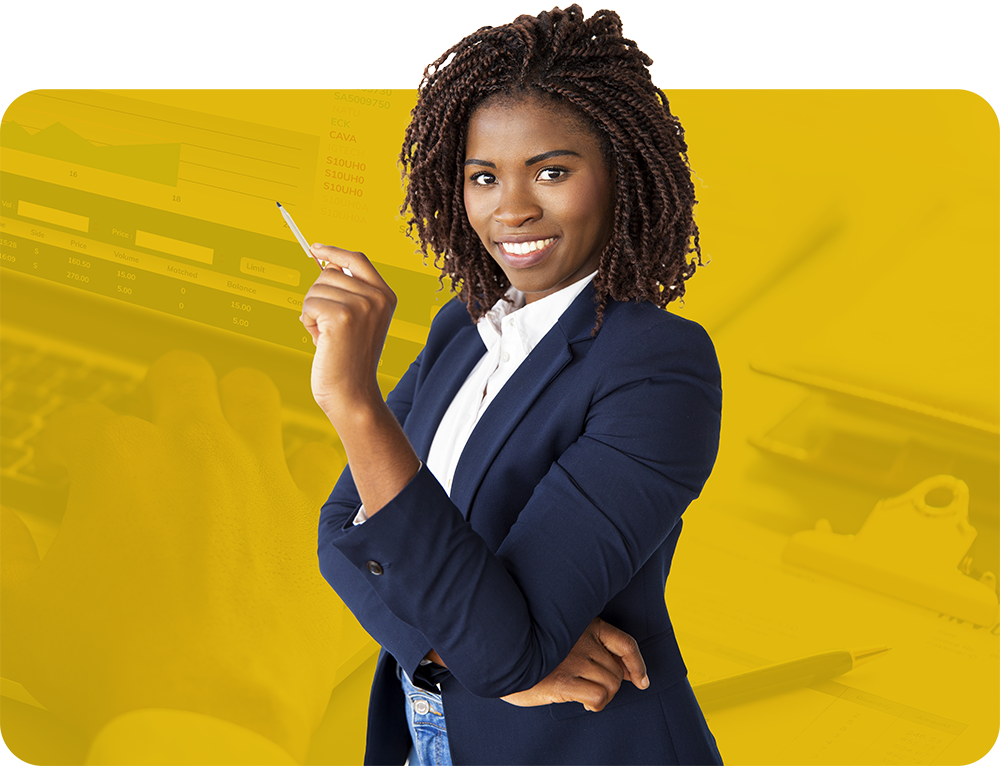
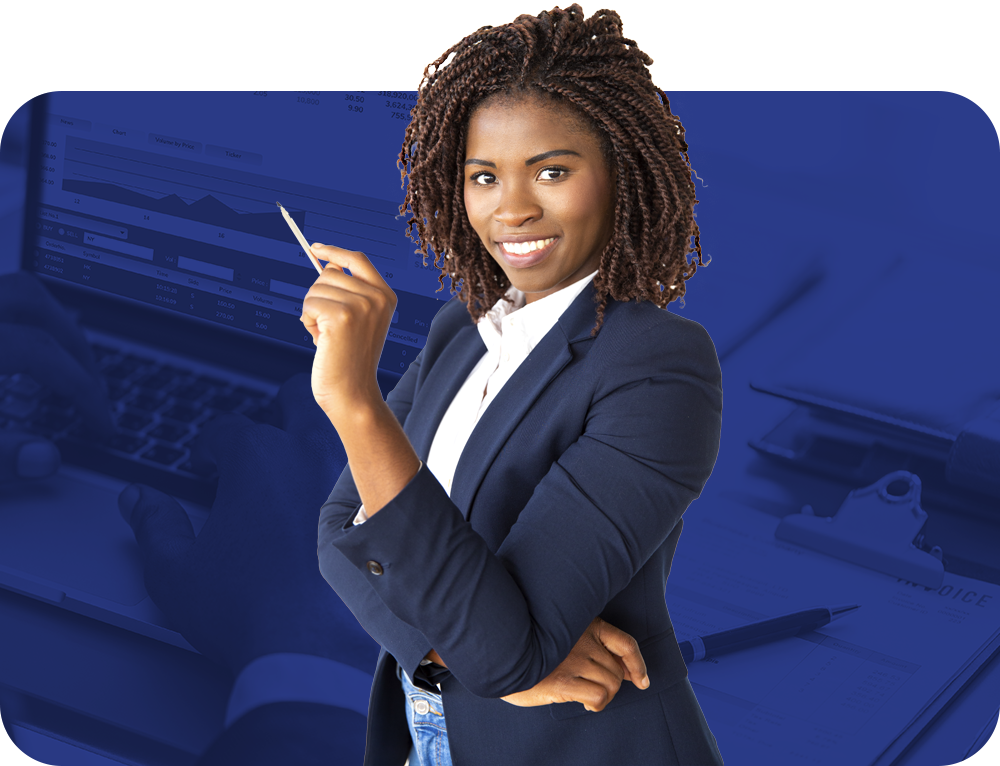
Color change

diff --git a/src/components/Aboutus.tsx b/src/components/Aboutus.tsx
@@ -38,7 +38,7 @@ export default function Aboutus() {
             <div className='container mx-auto px-4 md:py-20 py-10 '>
                 <div  className='grid md:grid-cols-2 gap-4 justify-center items-center'>
                     <div className='flex flex-col justify-center items-start'>
-                        <small className='text-amber-400 font-bold'>ABOUT US</small>
+                        <small className='text-blue-600 font-black'>ABOUT US</small>
                         <h1 className='font-black md:text-4xl text-3xl md:max-w-md'>Your trusted partner in accounting solutions</h1>
                     </div>
                     <div>
@@ -46,20 +46,20 @@ export default function Aboutus() {
                     </div>
                 </div>
                 <div className='grid md:grid-cols-4 md:gap-10 gap-6  justify-center items-center mt-10 '>
-                    <div className='flex flex-col justify-start items-start border-1 border-amber-400 p-10 rounded-3xl'>
-                    <div className='bg-amber-400 p-6 rounded-4xl mb-4'><Image src='/assets/images/book-keeping.png' width={50} height={50} alt='book keeping' className='' /></div>
+                    <div className='flex flex-col justify-start items-start border-1 border-blue-900 p-10 rounded-3xl'>
+                    <div className='bg-blue-600 p-6 rounded-4xl mb-4'><Image src='/assets/images/book-keeping.png' width={50} height={50} alt='book keeping' className='' /></div>
                         <p className='font-black text-xl '>Book Keeping And Accounting</p>
                     </div>
-                    <div className='flex flex-col justify-start items-start border-1 border-amber-400 p-10 rounded-3xl'>
-                    <div className='bg-amber-400 p-6 rounded-4xl mb-4'><Image src='/assets/images/tax.png' width={50} height={50} alt='book keeping' className='' /></div>
+                    <div className='flex flex-col justify-start items-start border-1 border-blue-900 p-10 rounded-3xl'>
+                    <div className='bg-blue-600 p-6 rounded-4xl mb-4'><Image src='/assets/images/tax.png' width={50} height={50} alt='book keeping' className='' /></div>
                         <p className='font-black text-xl '>Tax Planning And Preparation</p>
                     </div>
-                    <div className='flex flex-col justify-start items-start border-1 border-amber-400 p-10 rounded-3xl'>
-                    <div className='bg-amber-400 p-6 rounded-4xl mb-4'><Image src='/assets/images/consultation.png' width={50} height={50} alt='book keeping' className='' /></div>
-                        <p className='font-black text-xl'>Business Advisory Service</p>
+                    <div className='flex flex-col justify-start items-start border-1 border-blue-900 p-10 rounded-3xl'>
+                    <div className='bg-blue-600 p-6 rounded-4xl mb-4'><Image src='/assets/images/consultation.png' width={50} height={50} alt='book keeping' className='' /></div>
+                        <p className='font-black text-xl'>Business Advisory<br/> Service</p>
                     </div>
-                    <div className='flex flex-col justify-start items-start border-1 border-amber-400 p-10 rounded-3xl'>
-                        <div className='bg-amber-400 p-6 rounded-4xl mb-4'><Image src='/assets/images/evaluation.png' width={50} height={50} alt='book keeping' className='' /></div>
+                    <div className='flex flex-col justify-start items-start border-1 border-blue-900 p-10 rounded-3xl'>
+                        <div className='bg-blue-600 p-6 rounded-4xl mb-4'><Image src='/assets/images/evaluation.png' width={50} height={50} alt='book keeping' className='' /></div>
                         <p className='font-black text-xl'>Financial Statement Preparation</p>
                     </div>                  
                 </div>

diff --git a/src/components/Footer.tsx b/src/components/Footer.tsx
@@ -12,23 +12,23 @@ export default function Footer() {
             <div className=''>
                 <Image src='/assets/images/SVG/banu-white.svg' alt='logo' width={120} height={100} className='width={100}' />
                 <p className='pt-6'>Banu simplifies small business finances. But our larger purpose expands beyond that. We’re here to help entrepreneurs understand what they want to do and where they want to go.</p>
-                <Button className='mt-4 border-2 border-amber-400 bg-amber-400 hover:bg-white text-black cursor-pointer py-6 px-10 font-bold'>Get Started <ArrowUpRight /></Button>
+                <Button className='mt-4 border-1 border-blue-600 bg-blue-600 hover:bg-blue-900 text-white cursor-pointer py-6 px-10 font-bold'>Get Started <ArrowUpRight /></Button>
             </div>
             <div className=''>
-                <p className='font-black text-xl text-amber-400'>Quick Links</p>
+                <p className='font-black text-xl text-blue-600'>Quick Links</p>
                 <Link href={'/'}><p className='font-bold cursor-pointer py-2 border-b-1 border-b-gray-700'>About</p></Link>
                 <Link href={'/'}><p className='font-bold cursor-pointer py-2 border-b-1 border-b-gray-700'>Services</p></Link>
                 <Link href={'/'}><p className='font-bold cursor-pointer py-2 border-b-1 border-b-gray-700'>Faq</p></Link>
                 <Link href={'/'}><p className='font-bold cursor-pointer py-2 border-b-1 border-b-gray-700'>Pricing</p></Link>
             </div>
             <div className='md:text-right'>
-            <p className='font-black text-xl text-amber-400 md:text-right'>Say Hello!</p>
+            <p className='font-black text-xl text-blue-600 md:text-right'>Say Hello!</p>
                 <p>+1 (614) 285‑9445</p>
                 <p>info@banubookkeeping.com</p>
-                <div className='flex flex-row gap-4 mt-6 md:justify-end'>
-                    <div className='bg-amber-400 p-2 rounded-full text-black'><Facebook/></div>
-                    <div className='bg-amber-400 p-2 rounded-full text-black'><Twitter/></div>
-                    <div className='bg-amber-400 p-2 rounded-full text-black'><Linkedin/></div>
+                <div className='flex flex-row gap-4 mt-6 md:justify-end text-white'>
+                    <div className='bg-blue-600 p-2 rounded-full text-white'><Facebook/></div>
+                    <div className='bg-blue-600 p-2 rounded-full text-white'><Twitter/></div>
+                    <div className='bg-blue-600 p-2 rounded-full text-white'><Linkedin/></div>
                 </div>
             </div>
         </div>

diff --git a/src/components/Navbar.tsx b/src/components/Navbar.tsx
@@ -31,23 +31,23 @@ useEffect(() => {
           <Image src='/assets/images/SVG/banu.svg' alt='logo' width={150} height={100} className='width={100}' />
         </Link>
         <div className="hidden md:flex space-x-6 justify-between items-center">
-          <Link href="/" className="text-gray-900 hover:text-amber-400 font-bold">
+          <Link href="/" className="text-gray-900 hover:text-blue-600 font-bold">
             Home
           </Link>
-          <Link href="/services" className="text-gray-900 hover:text-amber-400 font-bold">
+          <Link href="/services" className="text-gray-900 hover:text-blue-600 font-bold">
             Services
           </Link>
-          <Link href="/about" className="text-gray-900 hover:text-amber-400 font-bold">
+          <Link href="/about" className="text-gray-900 hover:text-blue-600 font-bold">
             About Us
           </Link>
-          <Link href="/" className="text-gray-900 hover:text-amber-400 font-bold">
+          <Link href="/" className="text-gray-900 hover:text-blue-600 font-bold">
             Pricing
           </Link>
-          <Link href="/contacts" className="text-gray-900 hover:text-amber-400 font-bold">
+          <Link href="/contacts" className="text-gray-900 hover:text-blue-600 font-bold">
             Contacts
           </Link>
-          <Link href="/dashboard" className="text-gray-700 hover:text-blue-500">
-          <Button className='border-2 border-amber-400 bg-amber-400 hover:bg-white text-black cursor-pointer p-6 font-bold'>Get Started <ArrowUpRight/></Button>
+          <Link href="/dashboard" className="text-gray-700 hover:text-bg-blue-600">
+          <Button className=' bg-blue-900 hover:bg-blue-600 text-white cursor-pointer p-6 font-bold'>Get Started <ArrowUpRight/></Button>
           </Link>
         </div>
         <button className="md:hidden" onClick={() => setIsOpen(!isOpen)}>
@@ -72,7 +72,7 @@ useEffect(() => {
             Contacts <ArrowUpRight className='text-amber-400'/>
           </Link>
           <Link href="/dashboard" className="block flex flex-row justify-between text-gray-700 hover:text-blue-500">
-          <Button className='w-full border-2 border-amber-400 bg-amber-400 hover:bg-white text-black cursor-pointer p-6 font-bold'>Get Started <ArrowUpRight/></Button>
+          <Button className='w-full border-2 border-amber-400 bg-teal-800 hover:bg-white text-black cursor-pointer p-6 font-bold'>Get Started <ArrowUpRight/></Button>
           </Link>
         </div>
       )}

diff --git a/src/app/(auth)/signin/page.tsx b/src/app/(auth)/signin/page.tsx
@@ -6,7 +6,7 @@ import React from 'react'
 // import { EyeIcon, EyeOffIcon } from "lucide-react";
 
 import Login from '@/components/sign-in'
-import { auth } from '@/lib/auth'
+import { auth, signIn } from '@/lib/auth'
 import { redirect } from 'next/navigation'
 
 const SignIn = async () => {
@@ -28,14 +28,17 @@ const SignIn = async () => {
                         <Image src='/assets/images/SVG/banu.svg' alt='logo' width={150} height={100} className='' />
                     </Link>
 
-                    <Login/>
+                    <Login />
 
                     <div className="flex items-center gap-4 mt-6 w-full">
                         <div className="flex-1 border-t border-amber-400 w-full"></div>
                         <span className="text-gray-500">or continue with</span>
                         <div className="flex-1 border-t border-amber-400"></div>
                     </div>
-                    <form className='mt-10 flex flex-col gap-4 w-full'>
+                    <form action={async () => {
+                        "use server"
+                        await signIn("credentials")
+                    }} className='mt-10 flex flex-col gap-4 w-full'>
                         <div>
                             <input
                                 type="email"
@@ -50,7 +53,7 @@ const SignIn = async () => {
                                 placeholder="Enter your password"
                             />
                         </div>
-                        <Button className='hover:cursor-pointer bg-amber-400 text-black font-bold py-6 hover:bg-white border-amber-400 border-1 w-full' >Get Started</Button>
+                        <Button className='hover:cursor-pointer bg-teal-900 text-black font-bold py-6 hover:bg-white border-amber-400 border-1 w-full' >Get Started</Button>
                     </form>
                     <p className='mt-4'>Already Registered? <span><Link href={'/signup'} className='font-bold text-amber-400'>Sign Up</Link></span></p>
                 </div>

diff --git a/src/components/header.tsx b/src/components/header.tsx
@@ -32,9 +32,9 @@ export default function Header() {
         <section className=' min-h-200 flex justify-center items-center'>
             <div className='container mx-auto px-4 grid md:grid-cols-2 gap-4 mt-10'>
                 <div ref={textRef} className='flex flex-col justify-center items-start md:max-w-xl'>
-                    <h1 className='font-black md:text-5xl mb-3 text-3xl'>Reliable and transparent finances. Enjoy complete peace of mind.</h1>
+                    <h1 className='font-black md:text-5xl mb-3 text-3xl text-blue-900'>Reliable and transparent finances. Enjoy complete peace of mind.</h1>
                     <p>Banu helps small business owners like you streamline bookkeeping and income taxes with dedicated experts and user-friendly financial software—saving you time and money so you can focus on growing your business.</p>
-                    <div className='flex flex-row gap-4'><Button className='mt-4 border-2 border-amber-400 bg-amber-400 hover:bg-white text-black cursor-pointer py-6 px-10 font-bold'>Get Started <ArrowUpRight /></Button><Button className='mt-4 border-2 border-amber-400 bg-white text-black cursor-pointer py-6 px-6 font-bold hover:bg-amber-400'>Our Services <ArrowUpRight /></Button></div>
+                    <div className='flex flex-row gap-4'><Button className='mt-4 border-2 border-blue-900 bg-blue-900 hover:bg-blue-600 hover:border-blue-600 text-white cursor-pointer py-6 px-10 font-bold'>Get Started <ArrowUpRight /></Button><Button className='mt-4 border-2 border-blue-600 bg-blue-600 text-white cursor-pointer py-6 px-6 font-bold hover:bg-blue-900 hover:border-blue-900'>Our Services <ArrowUpRight /></Button></div>
                 </div>
                 <div className=''>
                     <Image ref={imageRef} src='/assets/images/hero-image.png' alt='hero' width={1000} height={400} />

diff --git a/src/app/contacts/page.tsx b/src/app/contacts/page.tsx
@@ -47,7 +47,7 @@ export default function ContactForm() {
             <div className="container mx-auto px-4 py-8">
                 <div className='grid md:grid-cols-2 gap-4 justify-center items-center'>
                     <div className='flex flex-col justify-center items-start'>
-                        <small className='text-amber-400 font-bold'>GET IN TOUCH</small>
+                        <small className='text-blue-600 font-black'>GET IN TOUCH</small>
                         <h1 className='font-black md:text-4xl text-3xl md:max-w-md'>Need help? <br />Let us get
                             intouch</h1>
                     </div>
@@ -60,7 +60,7 @@ export default function ContactForm() {
             <section className="container mx-auto px-4 py-8 grid md:grid-cols-2 gap-6">
                 <div className="md:mr-20">
                     <Image src="/assets/images/conta.jpg" alt="logo" width={1920} height={100} className="rounded-3xl mb-4 mr-10"  />
-                    <h3 className="font-bold text-amber-400 text-2xl">Say Hello!</h3>
+                    <h3 className="font-bold text-blue-600 text-2xl">Say Hello!</h3>
                     <p>+1 (614) 285‑9445</p>
                     <p>info@banubookkeeping.com</p>
                 </div>
@@ -94,7 +94,7 @@ export default function ContactForm() {
                     />
                     <Button
                         type="submit"
-                        className="bg-amber-400 hover:bg-white text-black font-bold border-1 hover:cursor-pointer border-amber-400 p-2 w-full"
+                        className="bg-blue-900 hover:bg-blue-600 text-white font-bold border-1 hover:cursor-pointer p-2 w-full"
                         disabled={loading}
                     >
                         {loading ? "Sending..." : "Send Message"}

diff --git a/src/components/Break.tsx b/src/components/Break.tsx
@@ -7,12 +7,12 @@ export default function Break() {
         <div className='container mx-auto bg-[url("/assets/images/break-bg.jpg")] bg-no-repeat bg-cover bg-center rounded-3xl py-10'>
             <div className='grid md:grid-cols-2 justify-end items-end p-10'>
                 <div className=''>
-                    <small className='font-black text-amber-400'>WHY CHOOSE US</small>
+                    <small className='font-black text-blue-400'>WHY CHOOSE US</small>
                     <h1 className='md:text-3xl text-2xl font-black text-white'>Experience seamless, secure, and
                     efficient account management</h1>
                 </div>
                 <div className='flex flex-col justify-center md:items-end mt-4 md:mt-0'>
-                    <h1 className='font-black text-3xl text-amber-400'>12 Years</h1>
+                    <h1 className='font-black text-3xl text-blue-400'>12 Years</h1>
                     <p className='font-bold text-white'>in accounting services</p>
                 </div>
             </div>

diff --git a/src/components/sign-out.tsx b/src/components/sign-out.tsx
@@ -3,15 +3,15 @@ import { signOut } from "@/lib/auth";
 import { Button } from "./ui/button"
 import Image from "next/image";
 
-const LogOut = () => {
+const SignOut = () => {
     const handleSignOut = async () => {
         await signOut();
     };
     return (
         <div className='w-full'>
-            <Button type="submit" onClick={handleSignOut} className='hover:cursor-pointer bg-white text-black font-bold py-6 hover:bg-white border-gray-300 border-1' ><span><Image src='/assets/images/google.svg' alt='logo' width={20} height={20} className='' /> </span>Logur</Button>
+            <Button onClick={handleSignOut} className='hover:cursor-pointer bg-white text-black font-bold py-6 hover:bg-white border-gray-300 border-1' ><span><Image src='/assets/images/google.svg' alt='logo' width={20} height={20} className='' /> </span>Logur</Button>
         </div>
     );
 };
 
-export default LogOut;
+export { SignOut };

diff --git a/src/lib/auth.ts b/src/lib/auth.ts
@@ -1,3 +1,19 @@
 import NextAuth from "next-auth"
 import Google from "next-auth/providers/google"
-export const { auth, handlers, signIn, signOut } = NextAuth({ providers: [Google]})
+import Credentials from "next-auth/providers/credentials"
+export const { auth, handlers, signIn, signOut } = NextAuth({ providers: [Google, Credentials({
+    credentials: {
+        email: {},
+        password: {},
+    },
+    authorize: async (credentials) => {
+        const email = "admin@admin.com";
+        const password = "admin";
+
+        if (credentials.email === email && credentials.password === password) {
+            return {email, password};
+        } else {
+            throw new Error("Invalid credentials");
+        }
+    }
+})]})

diff --git a/src/components/MainFooter.tsx b/src/components/MainFooter.tsx
@@ -3,8 +3,8 @@ import React from 'react'
 
 export default function MainFooter() {
   return (
-    <div className='bg-amber-400'>
-        <div className='container mx-auto px-4 py-4 flex md:flex-row flex-col md:justify-between md:items-center'>
+    <div className='bg-blue-600'>
+        <div className='container mx-auto px-4 py-4 flex md:flex-row flex-col md:justify-between md:items-center text-white'>
             <div>
             <p>Copyright © 2025, Banu. All rights reserved.</p>
             </div>

diff --git a/src/components/app-sidebar.tsx b/src/components/app-sidebar.tsx
@@ -11,7 +11,8 @@ import {
     SidebarMenuButton,
     SidebarMenuItem,
 } from "@/components/ui/sidebar"
-import LogOut from "./sign-out"
+import { SignOut } from "./sign-out"
+
 
 
 const items = [
@@ -83,7 +84,7 @@ export function AppSidebar() {
                 <SidebarGroup />
             </SidebarContent>
             <SidebarFooter>
-                <LogOut/>
+<SignOut/>
             </SidebarFooter>
         </Sidebar>
     )

diff --git a/src/app/dashboard/page.tsx b/src/app/dashboard/page.tsx
@@ -1,4 +1,4 @@
-import LogOut from "@/components/sign-out";
+
 import { auth } from "@/lib/auth";
 import { redirect } from "next/navigation";
 
@@ -8,7 +8,6 @@ const Dashboard = async () => {
 
   return (
     <div>Dashboard
-    <LogOut/>
     </div>
   )
 };
